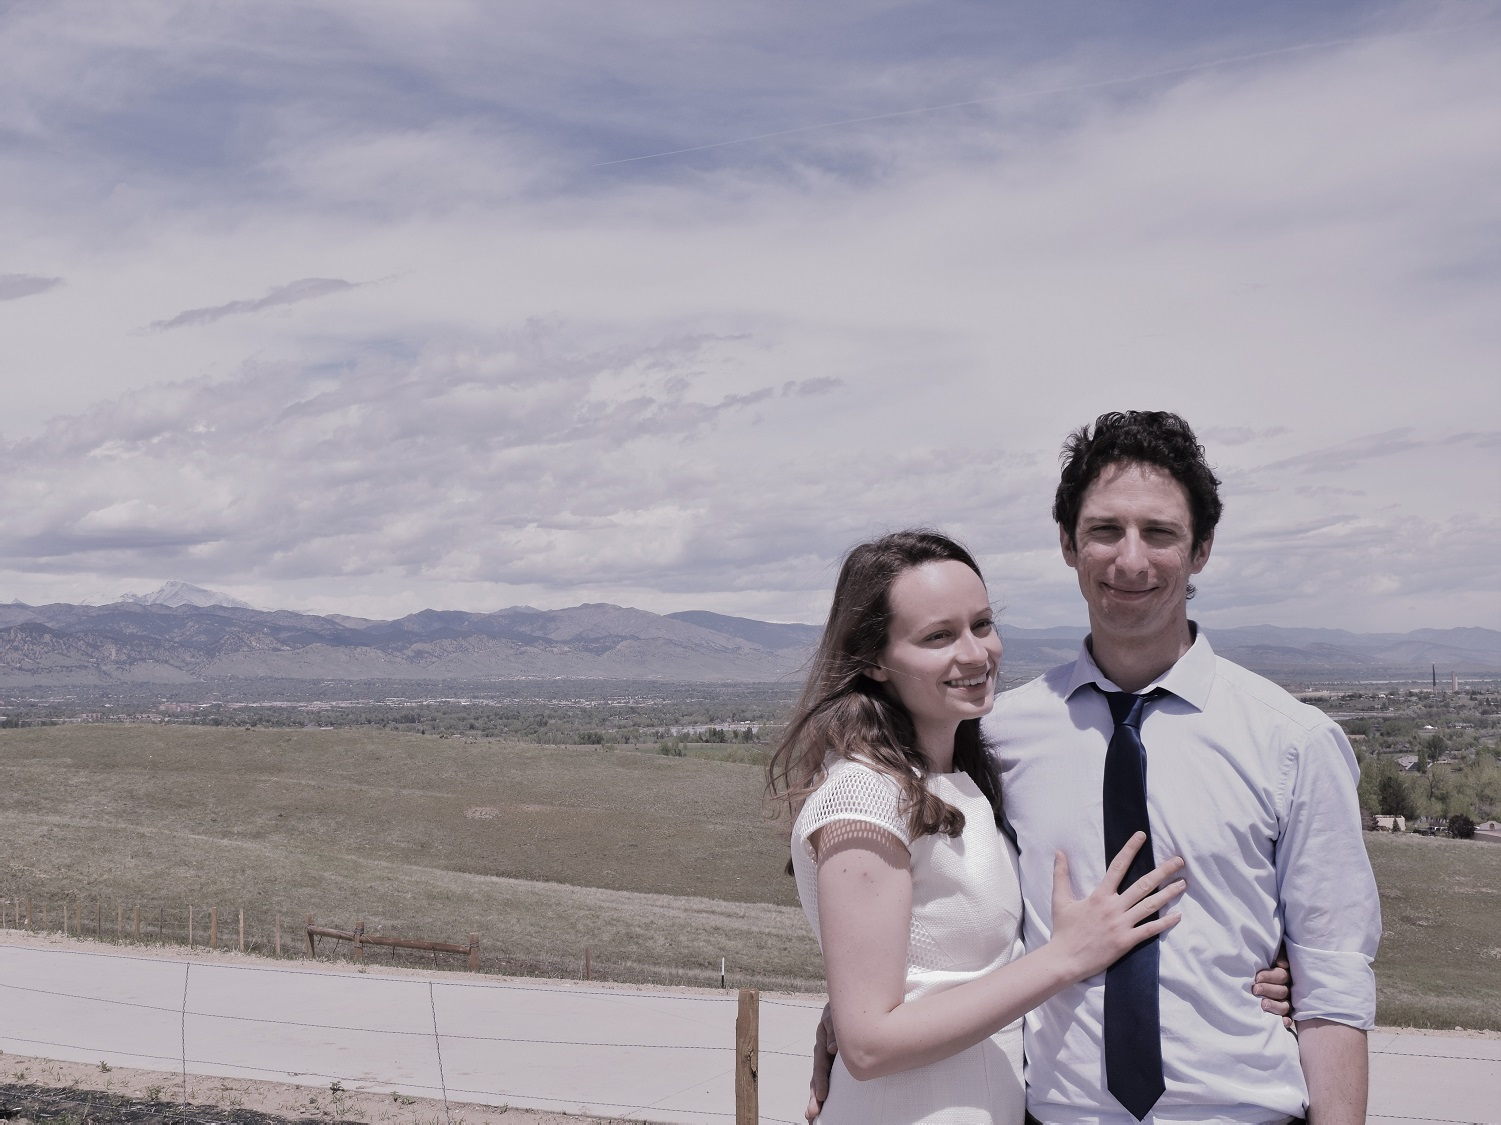
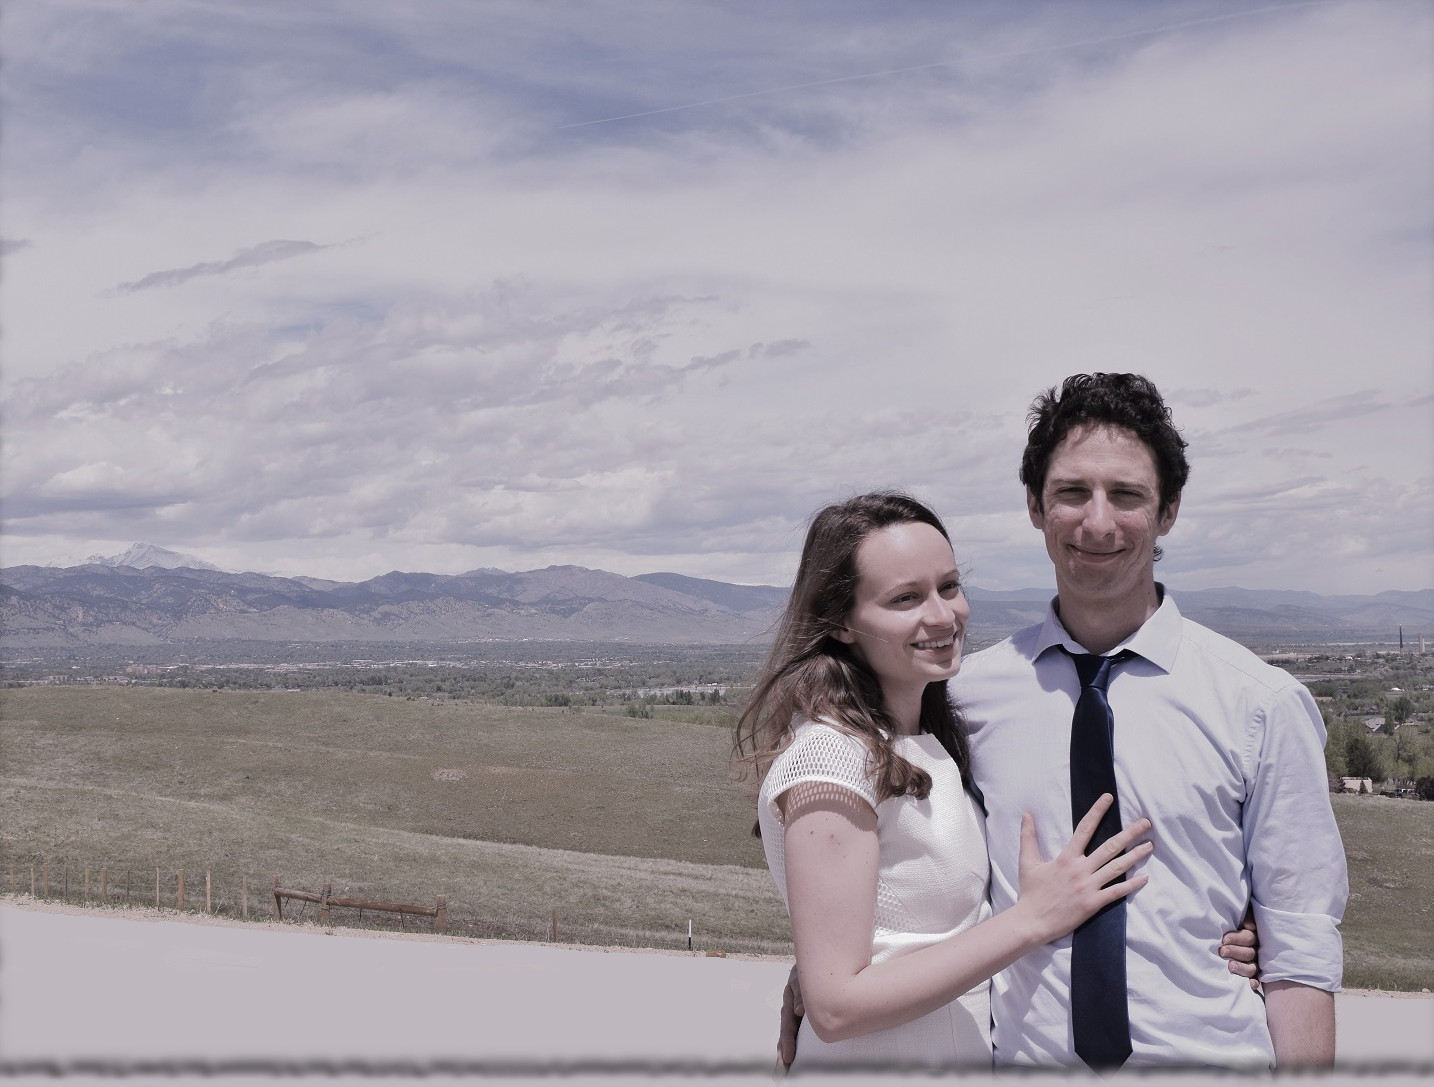
Update

diff --git a/index.html b/index.html
@@ -12,7 +12,7 @@
     <title>Bori és Toma esküvője</title>
 
     <!-- Bootstrap Core CSS -->
-    <link href="vendor/bootstrap/css/bootstrap.min.css" rel="stylesheet">
+    <link href="vendor/bootstrap/css/bootstrap.css" rel="stylesheet">
 
     <!-- Custom Fonts -->
     <link href="vendor/font-awesome/css/font-awesome.min.css" rel="stylesheet" type="text/css">
@@ -20,7 +20,7 @@
     <link href="https://fonts.googleapis.com/css?family=Montserrat:400,700" rel="stylesheet" type="text/css">
 
     <!-- Theme CSS -->
-    <link href="css/grayscale.min.css" rel="stylesheet">
+    <link href="css/grayscale.css" rel="stylesheet">
 
     <!-- HTML5 Shim and Respond.js IE8 support of HTML5 elements and media queries -->
     <!-- WARNING: Respond.js doesn't work if you view the page via file:// -->
@@ -117,7 +117,7 @@ You are cordially invited to our wedding on<br><b>June 3rd, 2017 at 4:30pm </b><
     </section>
 
     <!-- Directions Section -->
-    <section id="directions" class="container content-section text-center">
+    <section id="directions" class="container content-section text-center blackbg">
         <div class="row">
             <div class="col-lg-8 col-lg-offset-2">
                     <h2>Helyszín<br>Directions</h2>
@@ -181,7 +181,7 @@ The M7 highway runs just south of Székesfehérvár and is the fastest way to ar
     </section>
 
  <!-- Hotels Section -->
-    <section id="hotels" class="container content-section text-center">
+    <section id="hotels" class="container content-section text-center blackbg">
         <div class="row">
             <div class="col-lg-8 col-lg-offset-2">
                 <h2>Szállás<br>Hotels</h2>
@@ -212,7 +212,7 @@ The M7 highway runs just south of Székesfehérvár and is the fastest way to ar
     </section>
 
 <!-- Customs Section -->
-    <section id="customs" class="container content-section text-center">
+    <section id="customs" class="container content-section text-center blackbg">
         <div class="row">
             <div class="col-lg-8 col-lg-offset-2">
                 <h2>Hungarian Wedding Customs 101</h2>

diff --git a/css/grayscale.css b/css/grayscale.css
@@ -7,8 +7,8 @@ body {
   width: 100%;
   height: 100%;
   font-family: "Lora", "Helvetica Neue", Helvetica, Arial, sans-serif;
-  color: white;
-  background-color: black;
+  color: #110111;
+  background-color: #bdb6bd;
 }
 html {
   width: 100%;
@@ -39,7 +39,7 @@ p {
   }
 }
 a {
-  color: #42DCA3;
+  color: #11135c;
   -webkit-transition: all 0.2s ease-in-out;
   -moz-transition: all 0.2s ease-in-out;
   transition: all 0.2s ease-in-out;
@@ -125,7 +125,7 @@ a:focus {
   text-align: center;
   color: white;
   background: url(../img/intro-bg.jpg) no-repeat bottom center scroll;
-  background-color: black;
+  background-color: #bdb6bd;
   -webkit-background-size: cover;
   -moz-background-size: cover;
   background-size: cover;
@@ -220,11 +220,10 @@ a:focus {
 .content-section {
   padding-top: 100px;
 }
-.download-section {
+.blackbg {
   width: 100%;
   padding: 50px 0;
   color: white;
-  background: url(../img/downloads-bg.jpg) no-repeat center center scroll;
   background-color: black;
   -webkit-background-size: cover;
   -moz-background-size: cover;
